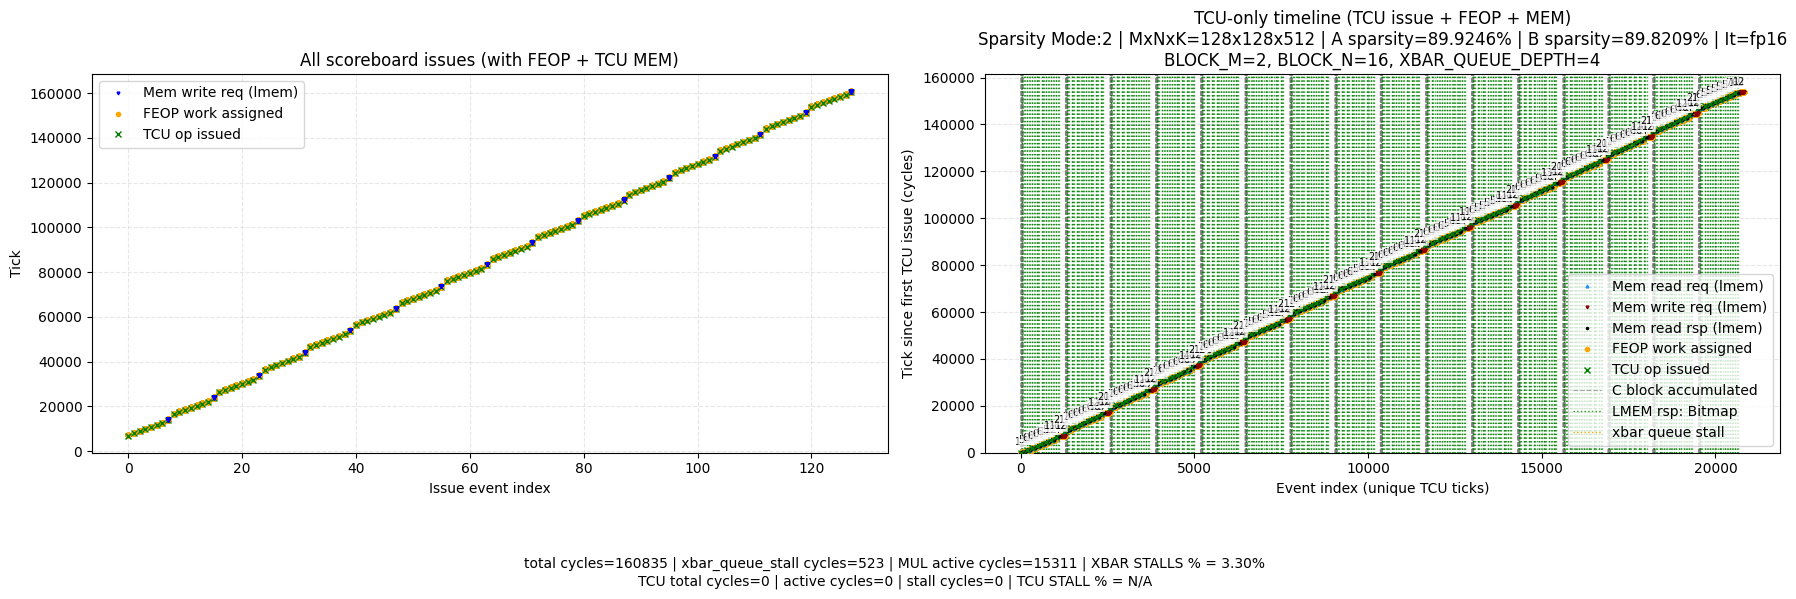
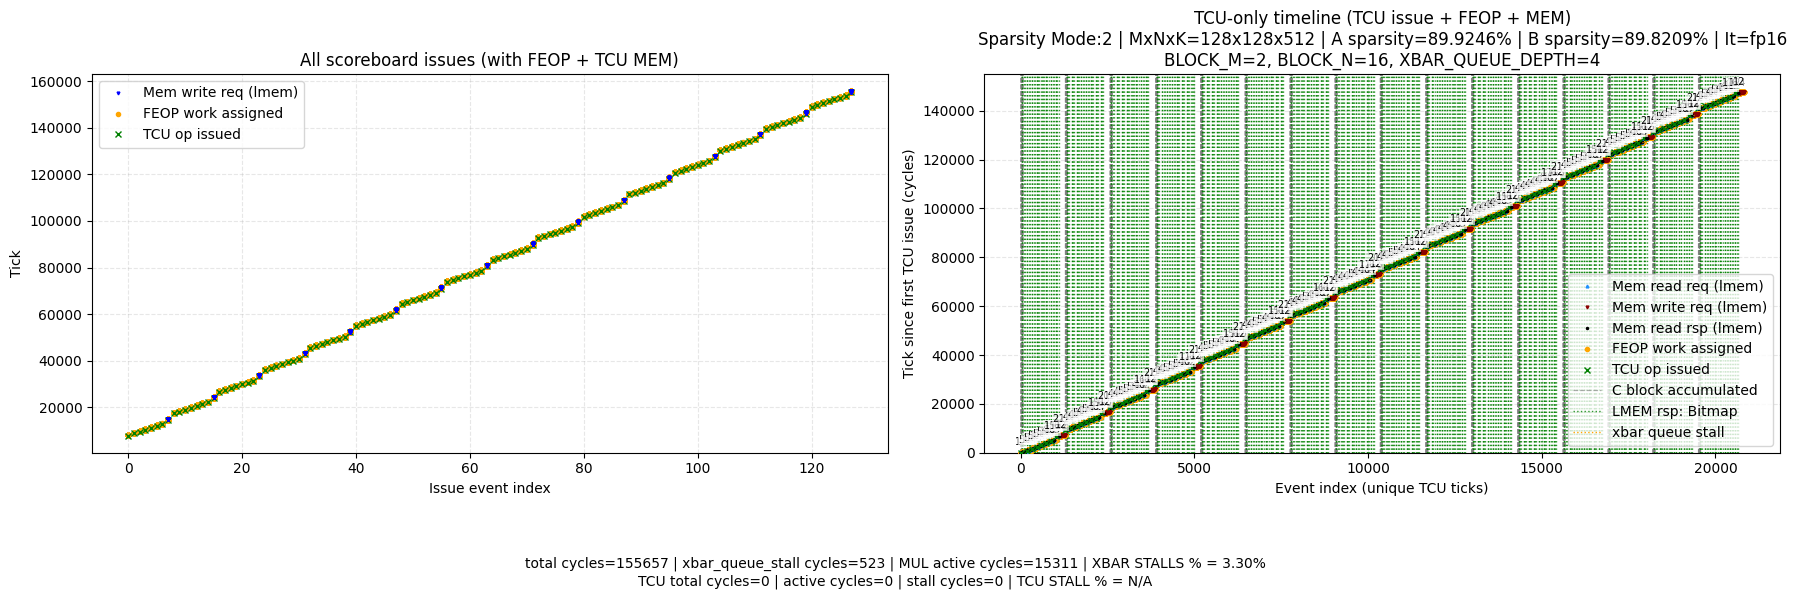
improved kernel

diff --git a/tests/regression/sgemm_tcu_op/kernel.cpp b/tests/regression/sgemm_tcu_op/kernel.cpp
@@ -136,7 +136,6 @@ __kernel void kernel_main(kernel_arg_t *__UNIFORM__ arg)
 
   const bool __UNIFORM__ is_dxa_warp = (csr_read(VX_CSR_CTA_RANK) == 0);
 
-
   uint32_t current_stage = 0;
   uint32_t next_stage = 0;
   uintptr_t pending_rs1_val = 0;
@@ -221,87 +220,74 @@ __kernel void kernel_main(kernel_arg_t *__UNIFORM__ arg)
     constexpr uint32_t b_bitmap_skew_regs = 16;
     constexpr uint32_t b_tile_align_regs = 16;
 
-#pragma unroll
-    for (uint32_t tile_row_idx = 0; tile_row_idx < tiles_m; ++tile_row_idx) {
-#pragma unroll
-      for (uint32_t tile_col_idx = 0; tile_col_idx < tiles_n; ++tile_col_idx) {
+// #pragma unroll
+    for (uint32_t tile_id = 0; tile_id < total_tiles; ++tile_id) {
+      const uint32_t tile_row_idx = tile_id / tiles_n;
+      const uint32_t tile_col_idx = tile_id % tiles_n;
+      const uintptr_t mma_D_addr = static_cast<uintptr_t>(arg->D_addr) + static_cast<uintptr_t>(tile_id) * tileD_regs * sizeof(uint32_t);
 
-        const uint32_t tile_id = tile_row_idx * tiles_n + tile_col_idx;
-        const uintptr_t mma_D_addr = static_cast<uintptr_t>(arg->D_addr) + static_cast<uintptr_t>(tile_id) * tileD_regs * sizeof(uint32_t);
-        uint32_t* mma_D = reinterpret_cast<uint32_t*>(mma_D_addr);
+      static constexpr uint32_t kDenseLaunches = div_up_constexpr(K, tile_K);
+// #pragma unroll
+      for (uint32_t dense_iter = 0; dense_iter < kDenseLaunches; ++dense_iter)
+      {
+        const uint32_t flags_chunk =
+            (uint32_t(dense_iter == 0) << 1) |
+            uint32_t(dense_iter == (kDenseLaunches - 1));
 
-        static constexpr uint32_t kDenseLaunches = div_up_constexpr(K, tile_K);
-        for (uint32_t dense_iter = 0; dense_iter < kDenseLaunches; ++dense_iter) 
-        {
-          const uint32_t k_tile_idx = dense_iter;
+        if ((tile_id | dense_iter) != 0) {
+          launch_pending_mma();
+        }
 
-          const uint32_t flags_chunk = (uint32_t(dense_iter == 0) << 1) | uint32_t(dense_iter == (kDenseLaunches - 1));
+        const uint32_t k_offset = dense_iter * tile_K;
+        uint32_t* stage_base = half0_base + next_stage * half_lmem_regs;
+        uint32_t* A_bitmap_lmem_next = nullptr;
+        uint32_t* A_lmem_next = stage_base;
+        uint32_t* B_bitmap_lmem_next = stage_base + dense_a_tile_regs;
+        uint32_t* B_lmem_next = B_bitmap_lmem_next + bitmap_tile_regs;
 
-          vx_barrier(barrier_base + ((current_stage + 2) << 8), num_warps_per_cta);
+        if constexpr (kSparseA) {
+          A_bitmap_lmem_next = stage_base;
+          A_lmem_next = stage_base + bitmap_tile_regs;
+          B_bitmap_lmem_next += b_bitmap_skew_regs;
+          B_lmem_next = B_bitmap_lmem_next + bitmap_tile_regs + b_tile_align_regs;
+        }
 
-          /* In the very first execution, no data are ready so skip the mma_op */
-          if ((tile_row_idx | tile_col_idx | dense_iter) != 0) 
-          {
-            launch_pending_mma();
-          }
-
-          const uint32_t k_offset = k_tile_idx * tile_K;
-          // Arithmetic stage selection keeps the rolled K loop from spilling pointer tables.
-          uint32_t* stage_base = half0_base + next_stage * half_lmem_regs;
-          uint32_t* A_bitmap_lmem_next = nullptr;
-          uint32_t* A_lmem_next = stage_base;
-          uint32_t* B_bitmap_lmem_next = stage_base + dense_a_tile_regs;
-          uint32_t* B_lmem_next = B_bitmap_lmem_next + bitmap_tile_regs;
-
+        if (is_dxa_warp) {
           if constexpr (kSparseA) {
-            A_bitmap_lmem_next = stage_base;
-            A_lmem_next = stage_base + bitmap_tile_regs;
-            B_bitmap_lmem_next += b_bitmap_skew_regs;
-            B_lmem_next = B_bitmap_lmem_next + bitmap_tile_regs + b_tile_align_regs;
-          }
-
-          if (is_dxa_warp) {
-            if constexpr (kSparseA) {
-              const uint32_t load_bar_id = barrier_base + (next_stage << 8);
-              vx_barrier_expect_tx(load_bar_id, 4);
-              vx_dxa_issue_1d_wg(kDescABitmap, load_bar_id, A_bitmap_lmem_next, tile_row_idx * K + k_offset);
-              vx_dxa_issue_2d_wg(kDescA, load_bar_id, A_lmem_next, 0, tile_row_idx * kDenseLaunches + k_tile_idx);
-            } else {
-              const uint32_t load_bar_id = barrier_base + (next_stage << 8);
-              vx_barrier_expect_tx(load_bar_id, 3);
-              vx_dxa_issue_2d_wg(kDescA, load_bar_id, A_lmem_next, 0, tile_row_idx * kDenseLaunches + k_tile_idx);
-            }
-
             const uint32_t load_bar_id = barrier_base + (next_stage << 8);
-            vx_dxa_issue_1d_wg(kDescBBitmap, load_bar_id, B_bitmap_lmem_next, tile_col_idx * K + k_offset);
-            vx_dxa_issue_2d_wg(kDescB, load_bar_id, B_lmem_next, 0, tile_col_idx * kDenseLaunches + k_tile_idx);
+            vx_barrier_expect_tx(load_bar_id, 4);
+            vx_dxa_issue_1d_wg(kDescABitmap, load_bar_id, A_bitmap_lmem_next, tile_row_idx * K + k_offset);
+            vx_dxa_issue_2d_wg(kDescA, load_bar_id, A_lmem_next, 0, tile_row_idx * kDenseLaunches + dense_iter);
+          } else {
+            const uint32_t load_bar_id = barrier_base + (next_stage << 8);
+            vx_barrier_expect_tx(load_bar_id, 3);
+            vx_dxa_issue_2d_wg(kDescA, load_bar_id, A_lmem_next, 0, tile_row_idx * kDenseLaunches + dense_iter);
           }
 
+          const uint32_t load_bar_id = barrier_base + (next_stage << 8);
+          vx_dxa_issue_1d_wg(kDescBBitmap, load_bar_id, B_bitmap_lmem_next, tile_col_idx * K + k_offset);
+          vx_dxa_issue_2d_wg(kDescB, load_bar_id, B_lmem_next, 0, tile_col_idx * kDenseLaunches + dense_iter);
+        }
 
-          if (is_dxa_warp) {
-            pending_rs1_val = (uintptr_t)vx_wgather(
-                      (size_t)(uintptr_t)A_lmem_next,
-                      (size_t)(uintptr_t)B_lmem_next,
-                      (size_t)(uintptr_t)nullptr /* mma_C */,
-                      (size_t)(uintptr_t)mma_D_addr);
-            pending_rs2_val = (uintptr_t)vx_wgather(
-                      (size_t)(uintptr_t)A_bitmap_lmem_next,
-                      (size_t)(uintptr_t)B_bitmap_lmem_next,
-                      (size_t)(barrier_base + ((next_stage + 2) << 8)),
-                      (size_t)((tile_K << 24)       |
-                              (max_a_blocks << 18)      |
-                              (max_b_blocks << 12)      |
-                              (vt::OTYPE::id << 8)  | 
-                              (vt::ITYPE::id << 4)  | 
-                              (kConstSparsity << 2) | 
-                              flags_chunk));
-          }
+        if (is_dxa_warp) {
+          pending_rs1_val = (uintptr_t)vx_wgather(
+                    (size_t)(uintptr_t)A_lmem_next,
+                    (size_t)(uintptr_t)B_lmem_next,
+                    (size_t)(uintptr_t)nullptr,
+                    (size_t)(uintptr_t)mma_D_addr);
+          pending_rs2_val = (uintptr_t)vx_wgather(
+                    (size_t)(uintptr_t)A_bitmap_lmem_next,
+                    (size_t)(uintptr_t)B_bitmap_lmem_next,
+                    (size_t)(barrier_base + ((next_stage + 2) << 8)),
+                    (size_t)((tile_K << 24) | (max_a_blocks << 18) |
+                            (max_b_blocks << 12) | (vt::OTYPE::id << 8) |
+                            (vt::ITYPE::id << 4) | (kConstSparsity << 2) |
+                            flags_chunk));
         }
       }
     }
 
     launch_pending_mma();
-
     vx_barrier(barrier_base + ((current_stage + 2) << 8), num_warps_per_cta);
   }
 
